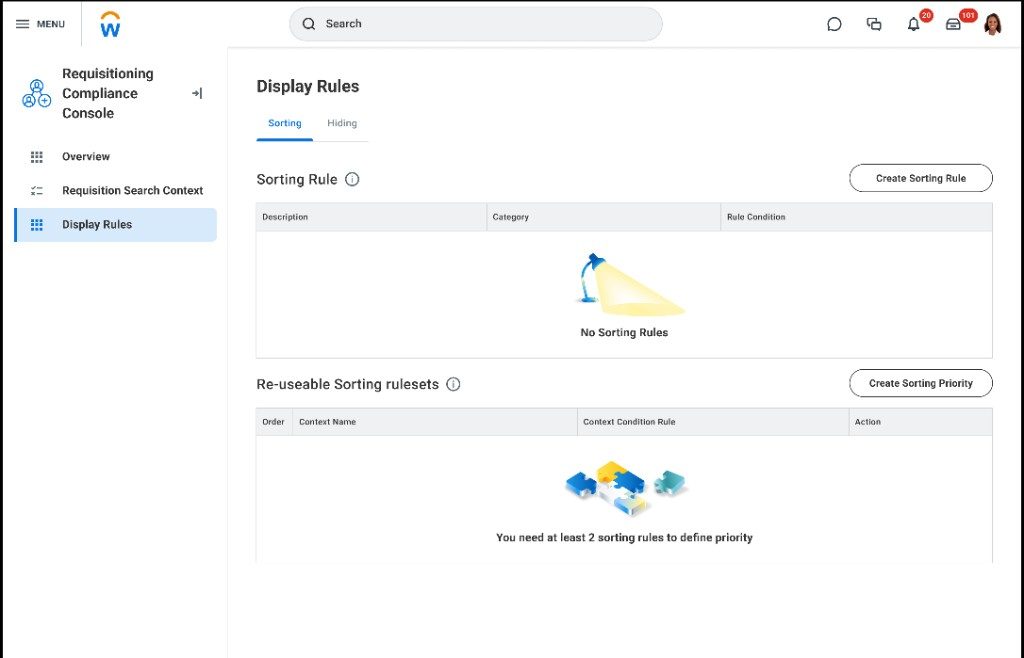
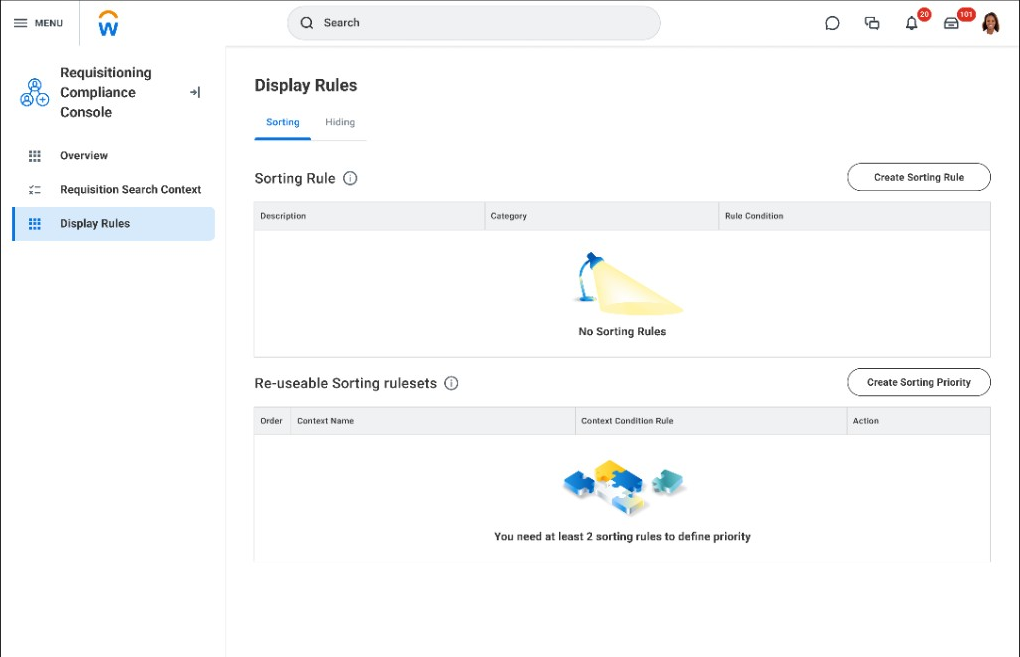
Roll out scroll-linked screenshot galleries across case studies.
Share one scroll-showcase script, drop gallery captions, trim console crops, and add light card shadows for clearer screenshot boundaries.

diff --git a/intake-agent.html b/intake-agent.html
@@ -9,7 +9,7 @@
   <link rel="preconnect" href="https://fonts.googleapis.com" />
   <link rel="preconnect" href="https://fonts.gstatic.com" crossorigin />
   <link href="https://fonts.googleapis.com/css2?family=Roboto:wght@300;400;500;700&family=Material+Symbols+Rounded:opsz,wght,FILL,GRAD@24,400,0,0&display=swap" rel="stylesheet" />
-  <link rel="stylesheet" href="style.css?v=20260807c" />
+  <link rel="stylesheet" href="style.css?v=20260807ad" />
   <link rel="stylesheet" href="material-tokens.css?v=20260748" />
   <link rel="stylesheet" href="material-theme.css?v=20260724b" />
   <script src="analytics.js"></script>
@@ -429,32 +429,30 @@
   </div>
 
 
-  <div class="cs-gallery">
+  <div class="cs-scroll-showcase" data-scroll-showcase data-scroll-showcase-direction="rtl">
+    <div class="cs-scroll-showcase__viewport">
+      <div class="cs-gallery cs-scroll-showcase__track">
       <figure class="cs-figure">
         <img src="images/intake-agent/07-admin-upload-document.png" alt="Admin screen to name and upload source documents for assistant answers" width="1024" height="686" loading="lazy" decoding="async" />
-        <figcaption>Upload document — source material for answers (DOCX/PDF or paste).</figcaption>
       </figure>
       <figure class="cs-figure">
         <img src="images/intake-agent/08-admin-policy-processing.png" alt="Processing state while an uploaded document is analyzed" width="1024" height="686" loading="lazy" decoding="async" />
-        <figcaption>Processing state—sets expectations for long uploads.</figcaption>
       </figure>
       <figure class="cs-figure">
         <img src="images/intake-agent/09-admin-routing-table.png" alt="Routing table overview showing topics, destinations, and whether each appears as a home-page shortcut" width="1024" height="679" loading="lazy" decoding="async" />
-        <figcaption>Routing table — at-a-glance routes, in-app vs external, Quick Link on/off.</figcaption>
       </figure>
       <figure class="cs-figure">
         <img src="images/intake-agent/10-admin-routing-rules-editor.png" alt="Route editor: stay in app or open an external link, plus shortcut label settings" width="1024" height="685" loading="lazy" decoding="async" />
-        <figcaption>Route detail — in-app vs external link; text for the home-page shortcut.</figcaption>
       </figure>
       <figure class="cs-figure">
         <img src="images/intake-agent/11-admin-testing-playground.png" alt="Sandbox where admins type sample questions to test routing before launch" width="1024" height="679" loading="lazy" decoding="async" />
-        <figcaption>Test sandbox — try prompts before go-live.</figcaption>
       </figure>
       <figure class="cs-figure">
         <img src="images/intake-agent/12-admin-analytics-dashboard.png" alt="Analytics dashboard showing suggested-action clicks, reported issues, and frequent questions" width="1024" height="790" loading="lazy" decoding="async" />
-        <figcaption>Analytics — what’s working, what’s breaking.</figcaption>
       </figure>
+      </div>
     </div>
+  </div>
   </div>
 
   <!-- First ship UI — illustrates hybrid model above -->
@@ -465,19 +463,20 @@
       Three ways in from one screen: Quick Links for repeat tasks, direct search for anything, and a side assistant when the answer needs context. Replies cite the source document and offer the logical next step.
     </p>
 
-    <div class="cs-gallery">
+    <div class="cs-scroll-showcase" data-scroll-showcase data-scroll-showcase-direction="ltr">
+      <div class="cs-scroll-showcase__viewport">
+        <div class="cs-gallery cs-scroll-showcase__track">
       <figure class="cs-figure">
         <img src="images/intake-agent/02-search-po-query.png" alt="Landing with a typed plain-language question about how to create a purchase order" width="1024" height="711" loading="lazy" decoding="async" />
-        <figcaption>Type any question — no form, no category required.</figcaption>
       </figure>
       <figure class="cs-figure">
         <img src="images/intake-agent/03-agent-thinking.png" alt="Side chat panel with the user’s question and a loading state" width="1024" height="711" loading="lazy" decoding="async" />
-        <figcaption>Side panel opens inline — landing page stays in view.</figcaption>
       </figure>
       <figure class="cs-figure">
         <img src="images/intake-agent/04-agent-po-answer.png" alt="Assistant reply with a grounded answer, policy source citation, and a next-step action button" width="1024" height="711" loading="lazy" decoding="async" />
-        <figcaption>Grounded answer — source cited, one clear next step.</figcaption>
       </figure>
+        </div>
+      </div>
     </div>
   </div>
 
@@ -489,19 +488,20 @@
       Phase 2 extended the assistant into the workflow. Users submit catalog requests, fill off-catalog forms, and receive confirmations — all without leaving the thread.
     </p>
 
-    <div class="cs-gallery">
+    <div class="cs-scroll-showcase" data-scroll-showcase data-scroll-showcase-direction="rtl">
+      <div class="cs-scroll-showcase__viewport">
+        <div class="cs-gallery cs-scroll-showcase__track">
       <figure class="cs-figure">
         <img src="images/intake-agent/13-phase2-catalog-requisition.png" alt="Chat thread showing catalog line items, submit button, and in-thread confirmation with reference number" width="1024" height="711" loading="lazy" decoding="async" />
-        <figcaption>Catalog item: review quantities, submit, get a reference number in-thread.</figcaption>
       </figure>
       <figure class="cs-figure">
         <img src="images/intake-agent/14-phase2-noncatalog-request-form.png" alt="Structured request form embedded in the chat for items not in the catalog" width="1024" height="711" loading="lazy" decoding="async" />
-        <figcaption>Off-catalog: structured form inline when no catalog item fits.</figcaption>
       </figure>
       <figure class="cs-figure">
         <img src="images/intake-agent/15-phase2-noncatalog-pricing.png" alt="Pricing step in the same chat thread with quantity, price, and confirm action" width="1024" height="711" loading="lazy" decoding="async" />
-        <figcaption>Pricing follows in the same thread — no context switch.</figcaption>
       </figure>
+        </div>
+      </div>
     </div>
   </div>
 
@@ -1059,6 +1059,7 @@
   })();
 </script>
 
+<script src="scroll-showcase.js?v=20260807"></script>
 <script src="site-meta.js?v=20260729"></script>
 <script src="liquid-glass-tabs.bundle.js?v=20260724"></script>
 

diff --git a/inventory-picking.html b/inventory-picking.html
@@ -9,7 +9,7 @@
   <link rel="preconnect" href="https://fonts.googleapis.com" />
   <link rel="preconnect" href="https://fonts.gstatic.com" crossorigin />
   <link href="https://fonts.googleapis.com/css2?family=Roboto:wght@300;400;500;700&family=Material+Symbols+Rounded:opsz,wght,FILL,GRAD@24,400,0,0&display=swap" rel="stylesheet" />
-  <link rel="stylesheet" href="style.css?v=20260807aa" />
+  <link rel="stylesheet" href="style.css?v=20260807ad" />
   <link rel="stylesheet" href="material-tokens.css?v=20260748" />
   <link rel="stylesheet" href="material-theme.css?v=20260807q" />
   <script src="analytics.js"></script>
@@ -355,9 +355,9 @@
         <span class="cs-flowcompare-tag">Before</span>
         <p>Legacy MAX on stock defaults — pick one line at a time, airy rows, a keypad covering half the screen.</p>
       </div>
-      <div class="cs-phone-showcase" data-phone-showcase data-phone-showcase-direction="rtl">
-        <div class="cs-phone-showcase__viewport">
-          <div class="cs-gallery cs-gallery-phone cs-phone-showcase__track">
+      <div class="cs-scroll-showcase" data-scroll-showcase data-scroll-showcase-direction="rtl">
+        <div class="cs-scroll-showcase__viewport">
+          <div class="cs-gallery cs-gallery-phone cs-scroll-showcase__track">
             <figure class="cs-figure">
               <img src="images/inventory-picking/01-inventory-site.png" alt="Before — site picker with widely spaced rows" width="576" height="1024" loading="lazy" decoding="async" />
             </figure>
@@ -380,9 +380,9 @@
         <span class="cs-flowcompare-tag">After</span>
         <p>Batch pick on the updated components — denser rows, fluid action bar, and the scanner driving every step.</p>
       </div>
-      <div class="cs-phone-showcase" data-phone-showcase data-phone-showcase-direction="ltr">
-        <div class="cs-phone-showcase__viewport">
-          <div class="cs-gallery cs-gallery-phone cs-phone-showcase__track">
+      <div class="cs-scroll-showcase" data-scroll-showcase data-scroll-showcase-direction="ltr">
+        <div class="cs-scroll-showcase__viewport">
+          <div class="cs-gallery cs-gallery-phone cs-scroll-showcase__track">
             <figure class="cs-figure">
               <img src="images/inventory-picking/batch-webview-01.jpg?v=3" alt="After — batch pick line in progress" width="443" height="987" loading="lazy" decoding="async" />
             </figure>
@@ -538,61 +538,12 @@
       }),
       { threshold: 0.07, rootMargin: '0px 0px -40px 0px' }
     );
-    document.querySelectorAll('.block, .callout, .quote-block, .comparison-grid, .insight-list, .reflection-block, .solution-table, .focus-grid, .checklist, .shipped-grid, .cs-hero-facts, .my-role-block, .kh-grid, .more-story, .cs-gallery, .cs-phone-showcase, .cs-overview, .cs-cursor-chapter, .cs-design-code, .cs-highlights, .cs-chapter-heading, .cs-snapshot, .cs-ending, .cs-learnings').forEach(el => {
+    document.querySelectorAll('.block, .callout, .quote-block, .comparison-grid, .insight-list, .reflection-block, .solution-table, .focus-grid, .checklist, .shipped-grid, .cs-hero-facts, .my-role-block, .kh-grid, .more-story, .cs-gallery, .cs-scroll-showcase, .cs-overview, .cs-cursor-chapter, .cs-design-code, .cs-highlights, .cs-chapter-heading, .cs-snapshot, .cs-ending, .cs-learnings').forEach(el => {
       el.style.opacity = '0';
       el.style.transform = 'translateY(16px)';
       el.style.transition = `opacity 0.72s ${ease}, transform 0.72s ${ease}`;
       observer.observe(el);
     });
-  })();
-
-  // Flowcompare phone showcase — horizontal scroll driven by vertical page scroll
-  (function () {
-    const reduceMotion = window.matchMedia('(prefers-reduced-motion: reduce)').matches;
-    const showcases = document.querySelectorAll('[data-phone-showcase]');
-    if (!showcases.length) return;
-
-    const state = [];
-    showcases.forEach((showcase) => {
-      const viewport = showcase.querySelector('.cs-phone-showcase__viewport');
-      const track = showcase.querySelector('.cs-phone-showcase__track');
-      const direction = showcase.getAttribute('data-phone-showcase-direction') === 'ltr' ? 'ltr' : 'rtl';
-      if (viewport && track) state.push({ showcase, viewport, track, direction });
-    });
-    if (!state.length) return;
-
-    let ticking = false;
-    function update() {
-      const vh = window.innerHeight;
-      state.forEach(({ showcase, viewport, track, direction }) => {
-        const rect = showcase.getBoundingClientRect();
-        const scrollRange = rect.height + vh;
-        const progress = Math.max(0, Math.min(1, (vh - rect.top) / scrollRange));
-        const maxOffset = Math.max(0, track.scrollWidth - viewport.clientWidth);
-        const travel = direction === 'ltr' ? (1 - progress) * maxOffset : progress * maxOffset;
-        if (!reduceMotion) {
-          track.style.transform = 'translate3d(' + (-travel) + 'px, 0, 0)';
-        }
-      });
-      ticking = false;
-    }
-
-    function onScroll() {
-      if (!ticking) {
-        requestAnimationFrame(update);
-        ticking = true;
-      }
-    }
-
-    window.addEventListener('scroll', onScroll, { passive: true });
-    window.addEventListener('resize', onScroll, { passive: true });
-    showcases.forEach((showcase) => {
-      showcase.querySelectorAll('img').forEach((img) => {
-        if (img.complete) return;
-        img.addEventListener('load', onScroll, { once: true });
-      });
-    });
-    update();
   })();
 
   // Staff proof: decision highlight pills
@@ -689,6 +640,7 @@
   })();
 </script>
 
+<script src="scroll-showcase.js?v=20260807"></script>
 <script src="site-meta.js?v=20260729"></script>
 <script src="liquid-glass-tabs.bundle.js?v=20260724"></script>
 

diff --git a/purchase-compliance.html b/purchase-compliance.html
@@ -9,7 +9,7 @@
   <link rel="preconnect" href="https://fonts.googleapis.com" />
   <link rel="preconnect" href="https://fonts.gstatic.com" crossorigin />
   <link href="https://fonts.googleapis.com/css2?family=Roboto:wght@300;400;500;700&family=Material+Symbols+Rounded:opsz,wght,FILL,GRAD@24,400,0,0&display=swap" rel="stylesheet" />
-  <link rel="stylesheet" href="style.css?v=20260807c" />
+  <link rel="stylesheet" href="style.css?v=20260807ad" />
   <link rel="stylesheet" href="material-tokens.css?v=20260748" />
   <link rel="stylesheet" href="material-theme.css?v=20260724b" />
   <script src="analytics.js"></script>
@@ -344,23 +344,23 @@
     </p>
   </div>
 
-  <div class="cs-gallery">
+  <div class="cs-scroll-showcase" data-scroll-showcase data-scroll-showcase-direction="rtl">
+    <div class="cs-scroll-showcase__viewport">
+      <div class="cs-gallery cs-scroll-showcase__track">
     <figure class="cs-figure">
-      <img src="images/purchase-compliance/console-overview.png" alt="Buying rules console overview with baseline and exception tables" width="1024" height="658" loading="lazy" decoding="async" />
-      <figcaption>Overview — baseline vs exceptions; priority column; sort and hide rules per context.</figcaption>
+      <img src="images/purchase-compliance/console-overview.png?v=2" alt="Buying rules console overview with baseline and exception tables" width="1024" height="658" loading="lazy" decoding="async" />
     </figure>
     <figure class="cs-figure">
-      <img src="images/purchase-compliance/console-maintain-context-modal.png" alt="Edit rules modal with baseline and exception rows" width="1024" height="660" loading="lazy" decoding="async" />
-      <figcaption>Edit context — one place to change conditions, sort rules, and hide rules for baseline and exceptions.</figcaption>
+      <img src="images/purchase-compliance/console-maintain-context-modal.png?v=2" alt="Edit rules modal with baseline and exception rows" width="1024" height="660" loading="lazy" decoding="async" />
     </figure>
     <figure class="cs-figure">
-      <img src="images/purchase-compliance/console-requisition-search-context.png" alt="Search behavior screen with baseline and exception tables" width="1024" height="658" loading="lazy" decoding="async" />
-      <figcaption>Search behavior — same baseline / exception model, scoped to how catalog search works.</figcaption>
+      <img src="images/purchase-compliance/console-requisition-search-context.png?v=2" alt="Search behavior screen with baseline and exception tables" width="1024" height="658" loading="lazy" decoding="async" />
     </figure>
     <figure class="cs-figure">
-      <img src="images/purchase-compliance/console-display-rules.png" alt="Display rules screen with sort and hide tabs" width="1024" height="658" loading="lazy" decoding="async" />
-      <figcaption>Display rules — sort order and reusable priority sets, separate from hide logic.</figcaption>
+      <img src="images/purchase-compliance/console-display-rules.png?v=2" alt="Display rules screen with sort and hide tabs" width="1024" height="658" loading="lazy" decoding="async" />
     </figure>
+      </div>
+    </div>
   </div>
 
   <div class="my-role-block">
@@ -620,6 +620,7 @@
   })();
 </script>
 
+<script src="scroll-showcase.js?v=20260807"></script>
 <script src="site-meta.js?v=20260729"></script>
 <script src="liquid-glass-tabs.bundle.js?v=20260724"></script>
 

diff --git a/style.css b/style.css
@@ -6036,31 +6036,74 @@ html.portfolio-locked body {
   max-width: 100%;
 }
 
-/* Flowcompare phone showcase — horizontal row, scroll-linked on vertical page scroll */
-.cs-flowcompare .cs-phone-showcase {
+/* Scroll-linked horizontal showcase — vertical page scroll drives horizontal reveal */
+.cs-flowcompare .cs-scroll-showcase {
   margin-top: 0;
   min-width: 0;
   max-width: 100%;
 }
 
-.cs-phone-showcase__viewport {
+.cs-scroll-showcase {
+  margin-top: 24px;
+  min-width: 0;
+  max-width: 100%;
+}
+
+.cs-scroll-showcase__viewport {
   overflow: hidden;
 }
 
-.cs-phone-showcase__track {
+.cs-scroll-showcase__track {
   overflow-x: visible;
   scroll-snap-type: none;
   will-change: transform;
 }
 
+.cs-scroll-showcase__track.cs-gallery {
+  display: flex;
+  flex-wrap: nowrap;
+  gap: clamp(16px, 2vw, 20px);
+  margin-top: 0;
+  width: max-content;
+  grid-template-columns: unset;
+}
+
+.cs-scroll-showcase__track.cs-gallery .cs-figure {
+  flex: 0 0 auto;
+  width: clamp(280px, 42vw, 520px);
+}
+
+/* Scroll showcase frames — light shadow so each screenshot reads as a card */
+.cs-scroll-showcase__track .cs-figure {
+  border-radius: 12px;
+  overflow: hidden;
+  background: var(--bg-card, #fff);
+  border: 1px solid var(--border);
+  box-shadow: 0 2px 10px rgba(0, 0, 0, 0.08), 0 1px 3px rgba(0, 0, 0, 0.05);
+}
+
+.cs-scroll-showcase__track.cs-gallery.cs-gallery-phone .cs-figure {
+  width: clamp(200px, 22vw, 260px);
+}
+
+.cs-scroll-showcase__track.cs-gallery:not(.cs-gallery-phone) .cs-figure img {
+  display: block;
+  width: 100%;
+  height: auto;
+}
+
+.cs-scroll-showcase__track figcaption {
+  display: none;
+}
+
 @media (prefers-reduced-motion: reduce) {
-  .cs-phone-showcase__viewport {
+  .cs-scroll-showcase__viewport {
     overflow-x: auto;
     -webkit-overflow-scrolling: touch;
     scrollbar-width: thin;
   }
 
-  .cs-phone-showcase__track {
+  .cs-scroll-showcase__track {
     will-change: auto;
     transform: none !important;
   }

diff --git a/scroll-showcase.js b/scroll-showcase.js
@@ -1,0 +1,47 @@
+(function () {
+  const reduceMotion = window.matchMedia('(prefers-reduced-motion: reduce)').matches;
+  const showcases = document.querySelectorAll('[data-scroll-showcase]');
+  if (!showcases.length) return;
+
+  const state = [];
+  showcases.forEach((showcase) => {
+    const viewport = showcase.querySelector('.cs-scroll-showcase__viewport');
+    const track = showcase.querySelector('.cs-scroll-showcase__track');
+    const direction = showcase.getAttribute('data-scroll-showcase-direction') === 'ltr' ? 'ltr' : 'rtl';
+    if (viewport && track) state.push({ showcase, viewport, track, direction });
+  });
+  if (!state.length) return;
+
+  let ticking = false;
+  function update() {
+    const vh = window.innerHeight;
+    state.forEach(({ showcase, viewport, track, direction }) => {
+      const rect = showcase.getBoundingClientRect();
+      const scrollRange = rect.height + vh;
+      const progress = Math.max(0, Math.min(1, (vh - rect.top) / scrollRange));
+      const maxOffset = Math.max(0, track.scrollWidth - viewport.clientWidth);
+      const travel = direction === 'ltr' ? (1 - progress) * maxOffset : progress * maxOffset;
+      if (!reduceMotion) {
+        track.style.transform = 'translate3d(' + (-travel) + 'px, 0, 0)';
+      }
+    });
+    ticking = false;
+  }
+
+  function onScroll() {
+    if (!ticking) {
+      requestAnimationFrame(update);
+      ticking = true;
+    }
+  }
+
+  window.addEventListener('scroll', onScroll, { passive: true });
+  window.addEventListener('resize', onScroll, { passive: true });
+  showcases.forEach((showcase) => {
+    showcase.querySelectorAll('img').forEach((img) => {
+      if (img.complete) return;
+      img.addEventListener('load', onScroll, { once: true });
+    });
+  });
+  update();
+})();
